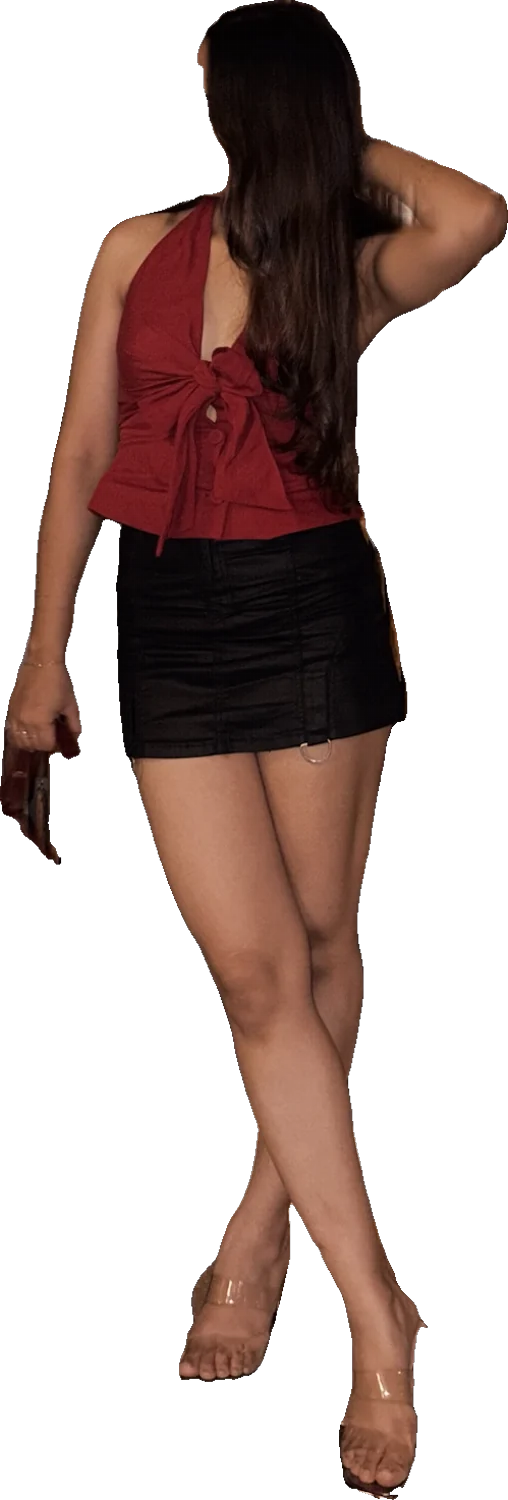
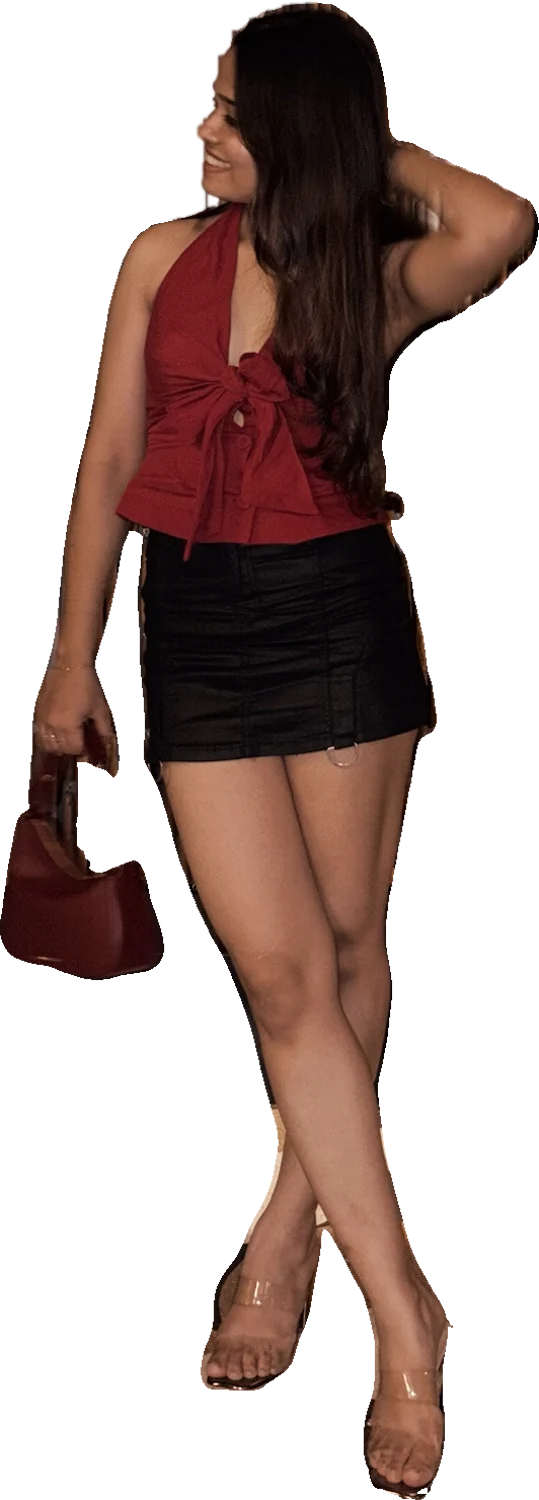
Ghost-portrait backdrops on all pages, new photoshoot and Lonavala photos, fix love tour cutout
Claude-Session: https://claude.ai/code/session_013SKNkG21uu13fm83ZaQXGa

diff --git a/index.html b/index.html
@@ -306,7 +306,8 @@ button,input{font:inherit;color:inherit}
 .gb-line span{font-family:"Instrument Serif";font-style:italic;font-size:4.2cqw;color:#ffd7c4}
 
 /* ===== 9 LETTER ===== */
-#letter{--bg:var(--kraft);height:auto;min-height:100svh;padding:9vh 0 12vh}
+#letter{--bg:#120a04;height:auto;min-height:100svh;padding:9vh 0 12vh;background:#120a04 url(img/k-letterplate.jpg) center top/cover no-repeat}
+#letter .lt-paper{box-shadow:0 30px 60px rgba(0,0,0,.6)}
 #letter .ab{position:relative;left:auto;transform:none;margin:0 auto;height:auto;container-type:inline-size}
 .lt-paper{position:relative;margin:0 4cqw;background:#fdfaf2;padding:10cqw 7cqw 9cqw 12cqw;transform:rotate(-1.2deg);box-shadow:0 20px 40px rgba(0,0,0,.3);
   background-image:linear-gradient(90deg,transparent 8cqw,rgba(200,25,31,.35) 8cqw,rgba(200,25,31,.35) calc(8cqw + 1.5px),transparent calc(8cqw + 1.5px)),repeating-linear-gradient(180deg,transparent 0 calc(7.4cqw - 1px),rgba(47,91,224,.25) calc(7.4cqw - 1px) 7.4cqw);background-position:0 0,0 9cqw}
@@ -332,7 +333,7 @@ button,input{font:inherit;color:inherit}
 .rs-hd .big span{color:transparent;-webkit-text-stroke:.45cqw var(--cream)}
 .rs-hd .k{font:700 2.6cqw "Space Mono";letter-spacing:.24em;text-transform:uppercase;margin-top:2cqw}
 .rs-list{position:absolute;top:calc(5cqh + 44cqw);left:6cqw;right:6cqw;bottom:5cqh;columns:2;column-gap:4cqw}
-.rs-i{break-inside:avoid;display:flex;gap:1.6cqw;font-family:"Instrument Serif";font-size:4.1cqw;line-height:1.05;margin-bottom:1.9cqw;opacity:.18;transition:opacity .3s}
+.rs-i{text-shadow:0 2px 10px rgba(0,0,0,.45);break-inside:avoid;display:flex;gap:1.6cqw;font-family:"Instrument Serif";font-size:4.1cqw;line-height:1.05;margin-bottom:1.9cqw;opacity:.18;transition:opacity .3s}
 .rs-i b{font:700 2.6cqw "Space Mono";min-width:5cqw;padding-top:.6cqw}
 .rs-i span{position:relative}
 .rs-i.on{opacity:1}
@@ -416,6 +417,7 @@ button,input{font:inherit;color:inherit}
   <section class="poster" id="cover" data-f="p. 01 — the cover">
     <div class="side l">the birthday issue</div><div class="side r">kinjal · 26</div>
     <div class="ab">
+      <img class="plate" id="cPlate" src="img/k-coverplate.jpg" alt="">
       <div class="c-mast" id="cMast" data-rn="KINJAL"></div>
       <div class="c-issue" id="cIssue"><span>issue nº 26</span><span>the birthday issue</span><span>by jay</span></div>
       <img class="c-cut halftone" id="cCut" src="img/forehead-halftone.webp" alt="Jay kissing Kinjal's forehead">
@@ -447,6 +449,7 @@ button,input{font:inherit;color:inherit}
   <section class="poster" id="anna" data-f="p. 03 — where it started">
     <div class="side l">chapter one</div><div class="side r">anna idli</div>
     <div class="ab">
+      <img class="plate" id="anPlate" src="img/k-annaplate.jpg" alt="">
       <div class="an-words anton" id="anWords"><div>WHERE</div><div>IT ALL</div><div>STARTED</div></div>
       <div class="film" id="anFilm" style="left:6cqw;top:46cqh;width:38cqw;z-index:3"><div class="hd"><span>ANNA IDLI</span><span>▸ 01</span></div><img src="img/annaidli.jpg" alt="" style="object-position:50% 40%"><div class="ft"><span>CHAPTER</span><span>ONE</span></div></div>
       <img class="an-cut halftone" id="anCut" src="img/annaidli-halftone.webp" alt="Kinjal and Jay at Anna Idli">
@@ -500,7 +503,7 @@ button,input{font:inherit;color:inherit}
     <div class="ab">
       <div class="cs-hd"><b>CONTACT<br>SHEET</b><span style="text-align:right">kinjal 400<br>roll 26 · by jay</span></div>
       <div class="cs-grid" id="csGrid"></div>
-      <div class="cs-zoom" id="csZoom"><img src="img/forehead.jpg" alt="" style="object-position:50% 30%"><div class="cap">the keeper. ♥</div></div>
+      <div class="cs-zoom" id="csZoom"><img src="img/shades.jpg" alt="Kinjal and Jay laughing at the photoshoot" style="object-position:50% 30%"><div class="cap">the keeper. ♥</div></div>
     </div>
   </section>
 
@@ -579,6 +582,7 @@ button,input{font:inherit;color:inherit}
   <section class="poster" id="reasons" data-f="p. 12 — 26 reasons">
     <div class="side l">26 reasons</div><div class="side r">it's not short</div>
     <div class="ab">
+      <img class="plate" id="rsPlate" src="img/k-reasonsplate.jpg" alt="">
       <div class="rs-hd"><div class="big">26<br><span>REASONS</span></div><div class="k">why it's you. a very incomplete list.</div></div>
       <div class="rs-list" id="rsList"></div>
     </div>
@@ -601,6 +605,7 @@ button,input{font:inherit;color:inherit}
   <section class="poster" id="back" data-f="p. 14 — the back cover">
     <div class="side l">the end</div><div class="side r">of chapter 26</div>
     <div class="ab">
+      <img class="plate" id="bkPlate" src="img/k-backplate.jpg" alt="">
       <div class="bk-hd" id="bkHd" data-rn="HAPPY|BIRTHDAY|KINJAL"></div>
       <div class="bk-script" id="bkScript">forever yours, Jay ♥</div>
       <img class="bk-cut halftone" id="bkCut" src="img/balsa-halftone.webp" alt="Kinjal hugging Jay">
@@ -687,7 +692,7 @@ function cLoop() {
 
 /* ---------- loader ---------- */
 const imgs = ['forehead-halftone', 'akina-halftone', 'annaidli-halftone', 'balsa-halftone', 'k-red1', 'k-red2', 'k-garba'].map(k => `img/${k}.webp`)
-  .concat(['k-ember', 'k-amber', 'k-ghostplate', 'k-garbaplate', 'k-duo1', 'k-duo2', 'k-duo3'].map(k => `img/${k}.jpg`))
+  .concat(['k-ember', 'k-amber', 'k-ghostplate', 'k-garbaplate', 'k-duo1', 'k-duo2', 'k-duo3', 'k-coverplate', 'k-annaplate', 'k-reasonsplate', 'k-backplate', 'k-letterplate', 'car', 'shades'].map(k => `img/${k}.jpg`))
   .concat(['annaidli', 'balsa', 'garba', 'akina', 'sinonnas', 'night', 'cheek', 'forehead'].map(k => `img/${k}.jpg`));
 let loaded = 0; const msgs = ['gluing photos…', 'cutting paper…', 'inking the stamps…', 'drying the ink…', 'stapling it together…'];
 const shown = {v: 0};
@@ -784,7 +789,7 @@ function coverIntro() {
     .to('#cScrib', {clipPath: 'inset(0 0% 0 0)', duration: .8, ease: 'none'});
 }
 gsap.to('#cBurst', {rotation: '+=360', duration: 30, repeat: -1, ease: 'none'});
-pin('#cover', 60).to('#cCut', {scale: 1.06, duration: 1}, 0).to('#cMast', {y: -10, duration: 1}, 0);
+pin('#cover', 60).fromTo('#cPlate', {scale: 1}, {scale: 1.08, duration: 1, ease: 'none'}, 0).to('#cCut', {scale: 1.06, duration: 1}, 0).to('#cMast', {y: -10, duration: 1}, 0);
 
 /* 2 HAPPY BIRTHDAY */
 prepDraw('#hbHeart path');
@@ -803,6 +808,7 @@ pin('#hb', 300, {onUpdate: s => { if (s.progress > .55 && !flashed) { flashed = 
 /* 3 ANNA IDLI */
 prepDraw('#anIdli path, #anIdli ellipse');
 pin('#anna', 300)
+  .fromTo('#anPlate', {scale: 1.15}, {scale: 1, duration: 3.5, ease: 'none'}, 0)
   .fromTo('#anWords div', {yPercent: 120, opacity: 0}, {yPercent: 0, opacity: 1, duration: .6, stagger: .2, ease: 'power4.out'}, 0)
   .fromTo('#anCut', {xPercent: 60, rotation: 8, opacity: 0}, {xPercent: 0, rotation: 0, opacity: 1, duration: 1, ease: 'power3.out'}, .6)
   .fromTo('#anFilm', {yPercent: 80, rotation: -20, opacity: 0}, {yPercent: 0, rotation: -5, opacity: 1, duration: .8, ease: 'power3.out'}, 1)
@@ -825,8 +831,8 @@ pin('#age', 200)
   .to({}, {duration: .4});
 
 /* 5 CONTACT SHEET */
-const sheet = [['akina', '01', 'that look', [8, 92]], ['sinonnas', '02', 'chef kinjal', [52, 92]], ['garba', '03', 'that laugh!!', [8, 92]], ['night', '04', 'us', [60, 92]], ['balsa', '05', 'that hug', [8, 92]], ['annaidli', '06', 'day one ♥', [44, 92]]];
-$('#csGrid').innerHTML = sheet.map(([k, n, note, [l, t]], i) => `<div class="cs-f"><img src="img/${k}.jpg" alt="" style="object-position:${k === 'garba' ? '30%' : '50%'} 30%"><span class="n">▸ ${n}A</span>
+const sheet = [['akina', '01', 'that look', [8, 92]], ['sinonnas', '02', 'chef kinjal', [52, 92]], ['garba', '03', 'that laugh!!', [8, 92]], ['car', '04', 'lonavala ✌', [40, 92]], ['balsa', '05', 'that hug', [8, 92]], ['annaidli', '06', 'day one ♥', [44, 92]]];
+$('#csGrid').innerHTML = sheet.map(([k, n, note, [l, t]], i) => `<div class="cs-f"><img src="img/${k}.jpg" alt="" style="object-position:${k === 'garba' ? '30%' : k === 'car' ? '65%' : '50%'} 30%"><span class="n">▸ ${n}A</span>
   <svg class="cs-ring" viewBox="0 0 100 100" preserveAspectRatio="none"><path d="M50 4 C 86 2, 98 26, 96 52 C 94 82, 70 98, 46 96 C 16 94, 2 74, 4 48 C 6 22, 26 6, 56 6" vector-effect="non-scaling-stroke"/></svg>
   <div class="cs-note" style="left:${l}%;top:${t}%;transform:rotate(${i % 2 ? 6 : -6}deg)">${note}</div></div>`).join('');
 prepDraw('.cs-ring path');
@@ -839,7 +845,7 @@ csTl.fromTo('#csZoom', {opacity: 0, clipPath: 'inset(40% 30% 40% 30%)'}, {opacit
   .to({}, {duration: .5});
 
 /* 6 LOVE TOUR */
-const tour = [['Anna Idli', 'opening night', true], ['Lonavala', 'the road trip', false], ['Cozy Box', 'intimate show', true], ['Akina', 'dinner set', false], ["Si Nonna's", 'live cooking', true], ['Balsa', 'encore', false], ['Garba Night', 'dance floor', true], ['every café', 'residency', false]];
+const tour = [['Anna Idli', 'opening night', true], ['Lonavala', 'the road trip', true], ['Cozy Box', 'intimate show', true], ['Akina', 'dinner set', false], ["Si Nonna's", 'live cooking', true], ['Balsa', 'encore', false], ['Garba Night', 'dance floor', true], ['every café', 'residency', false]];
 $('#tList').innerHTML = tour.map(([v, d, s]) => `<div class="t-row"><b>${v}</b><span>${d}</span>${s ? '<i class="sold">SOLD OUT</i>' : ''}</div>`).join('');
 const tTl = pin('#tour', 300);
 tTl.fromTo('#tPlate', {scale: 1.2, xPercent: -4}, {scale: 1, xPercent: 0, duration: 3.6, ease: 'none'}, 0);
@@ -910,6 +916,7 @@ const R = ['you love loudly', 'your letters', 'you remember everything', 'you ne
 $('#rsList').innerHTML = R.map((r, i) => `<div class="rs-i"><b>${String(i + 1).padStart(2, '0')}</b><span>${r}</span></div>`).join('');
 const ri = $$('.rs-i');
 pin('#reasons', 260, {onUpdate: s => { const n = Math.round(Math.min(1, s.progress/.92)*ri.length); ri.forEach((r, i) => r.classList.toggle('on', i < n)); }})
+  .fromTo('#rsPlate', {scale: 1.12}, {scale: 1, duration: 1, ease: 'none'}, 0)
   .fromTo('.rs-hd .big', {scale: 1.6, opacity: 0}, {scale: 1, opacity: 1, duration: .1}, 0).to({}, {duration: .9});
 
 /* 11 WISH — a real cake */
@@ -1053,6 +1060,7 @@ pin('#wish', 80).fromTo('.w-hd .big div', {xPercent: (i) => i ? 100 : -100, opac
 /* 12 BACK COVER */
 let endFired = false;
 pin('#back', 220, {onUpdate: s => { if (s.progress > .7 && !endFired) { endFired = true; confetti(240); buzz([40, 40, 120]); } if (s.progress < .4) endFired = false; }})
+  .fromTo('#bkPlate', {scale: 1.15}, {scale: 1, duration: 2.4, ease: 'none'}, 0)
   .fromTo('#bkHd .rn', {y: -140, rotation: () => gsap.utils.random(-60, 60), opacity: 0}, {y: 0, rotation: (i, el) => el.style.transform.match(/rotate\(([-\d.]+)/)?.[1] || 0, opacity: 1, duration: .5, stagger: .04, ease: 'back.out(2.4)'}, 0)
   .fromTo('#bkCut', {yPercent: 60, opacity: 0}, {yPercent: 0, opacity: 1, duration: .8, ease: 'power3.out'}, .8)
   .to('#bkScript', {clipPath: 'inset(0 0% 0 0)', duration: .6, ease: 'none'}, 1.5)
